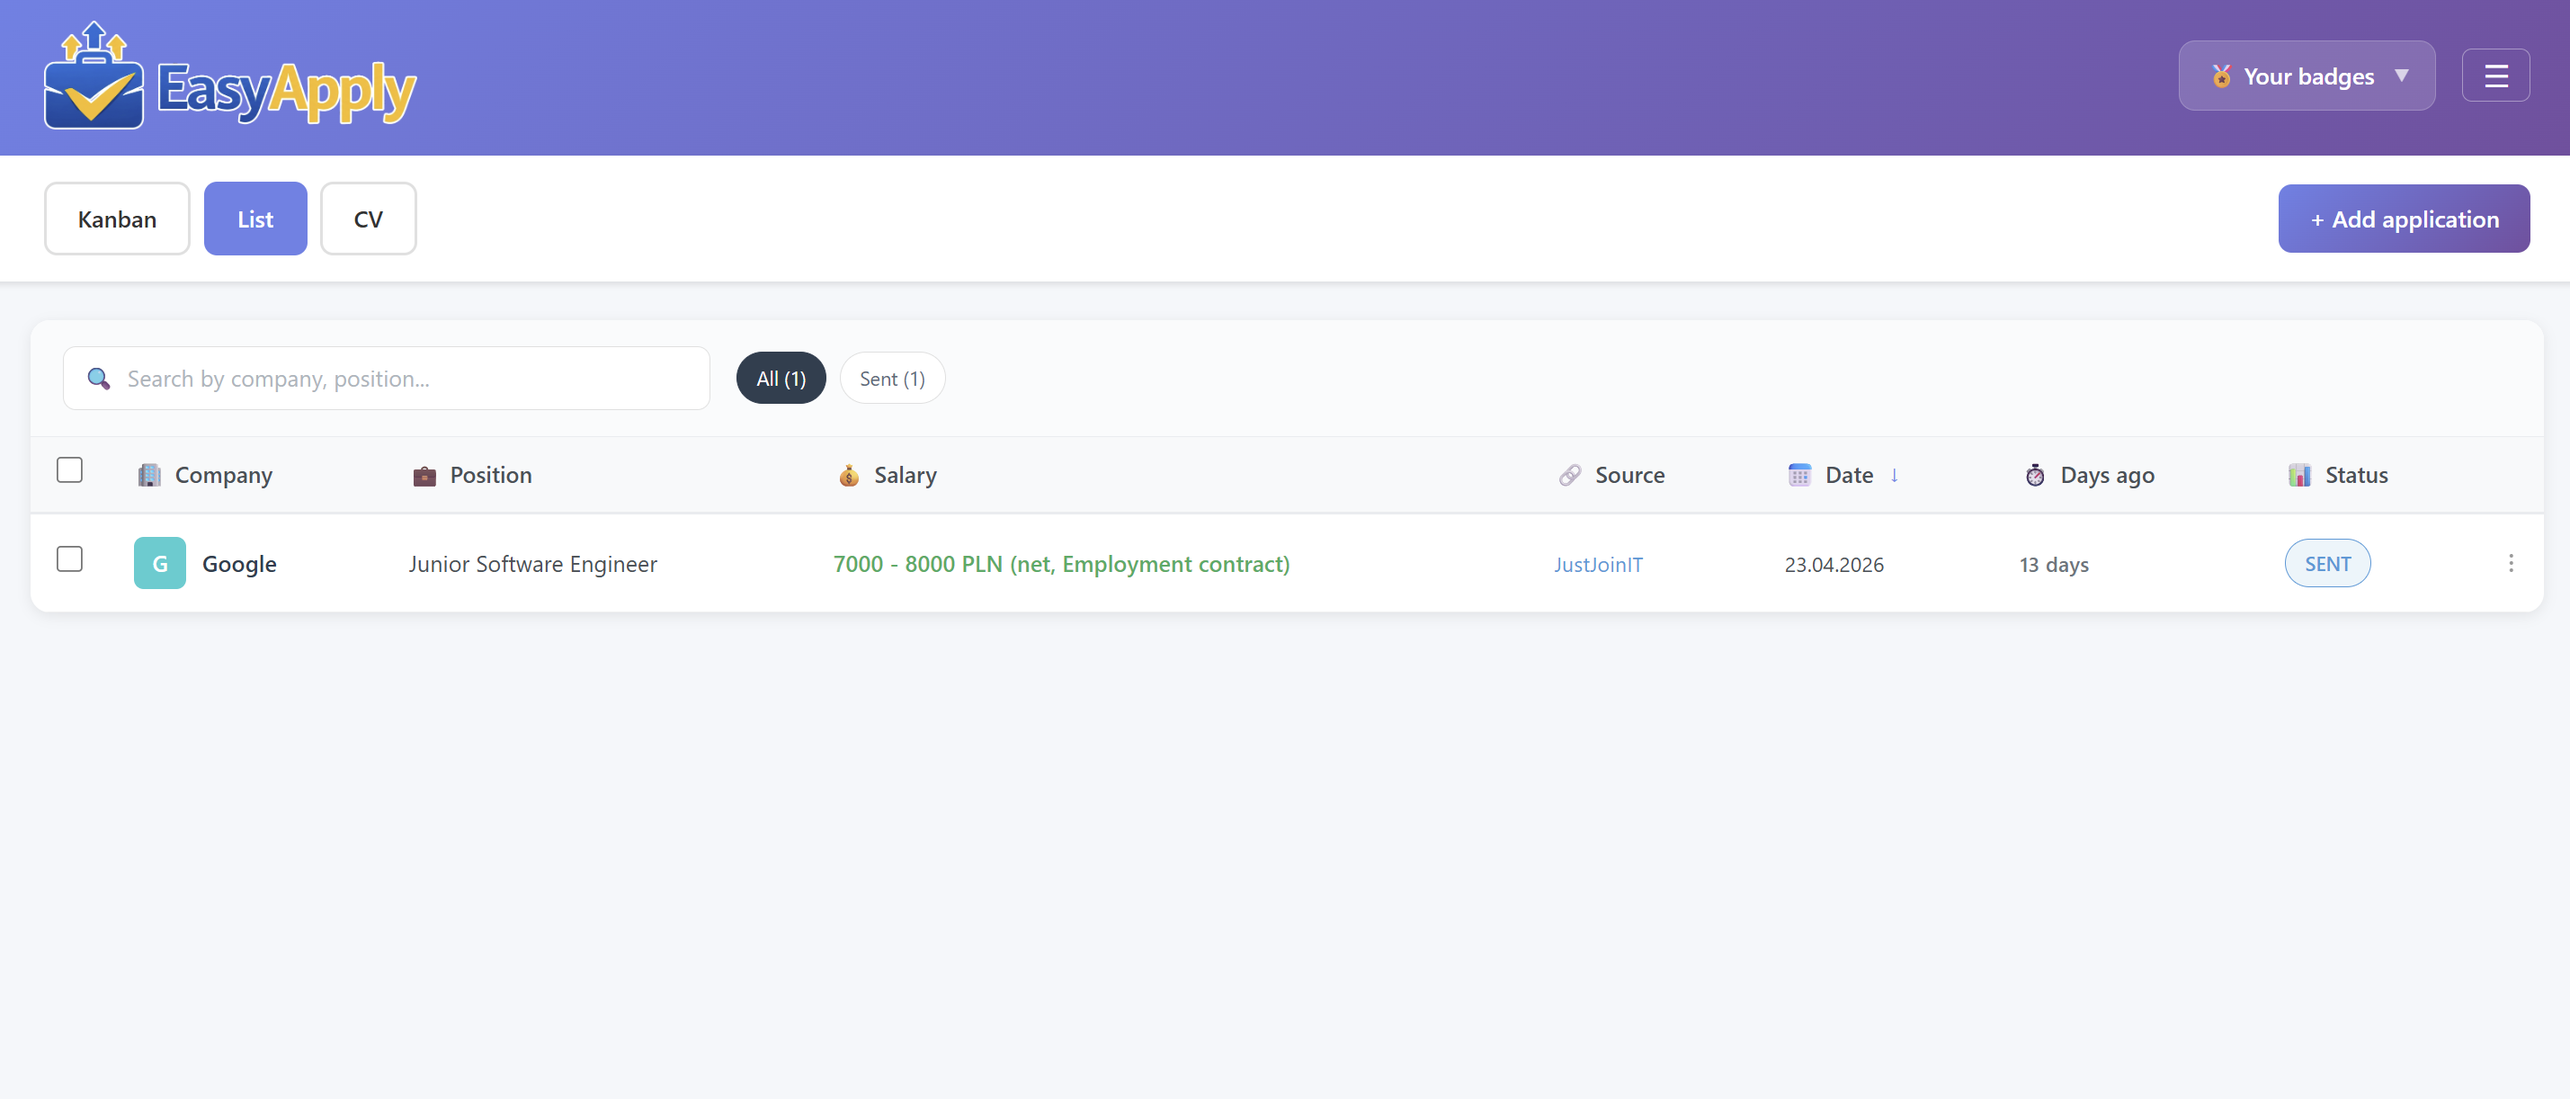
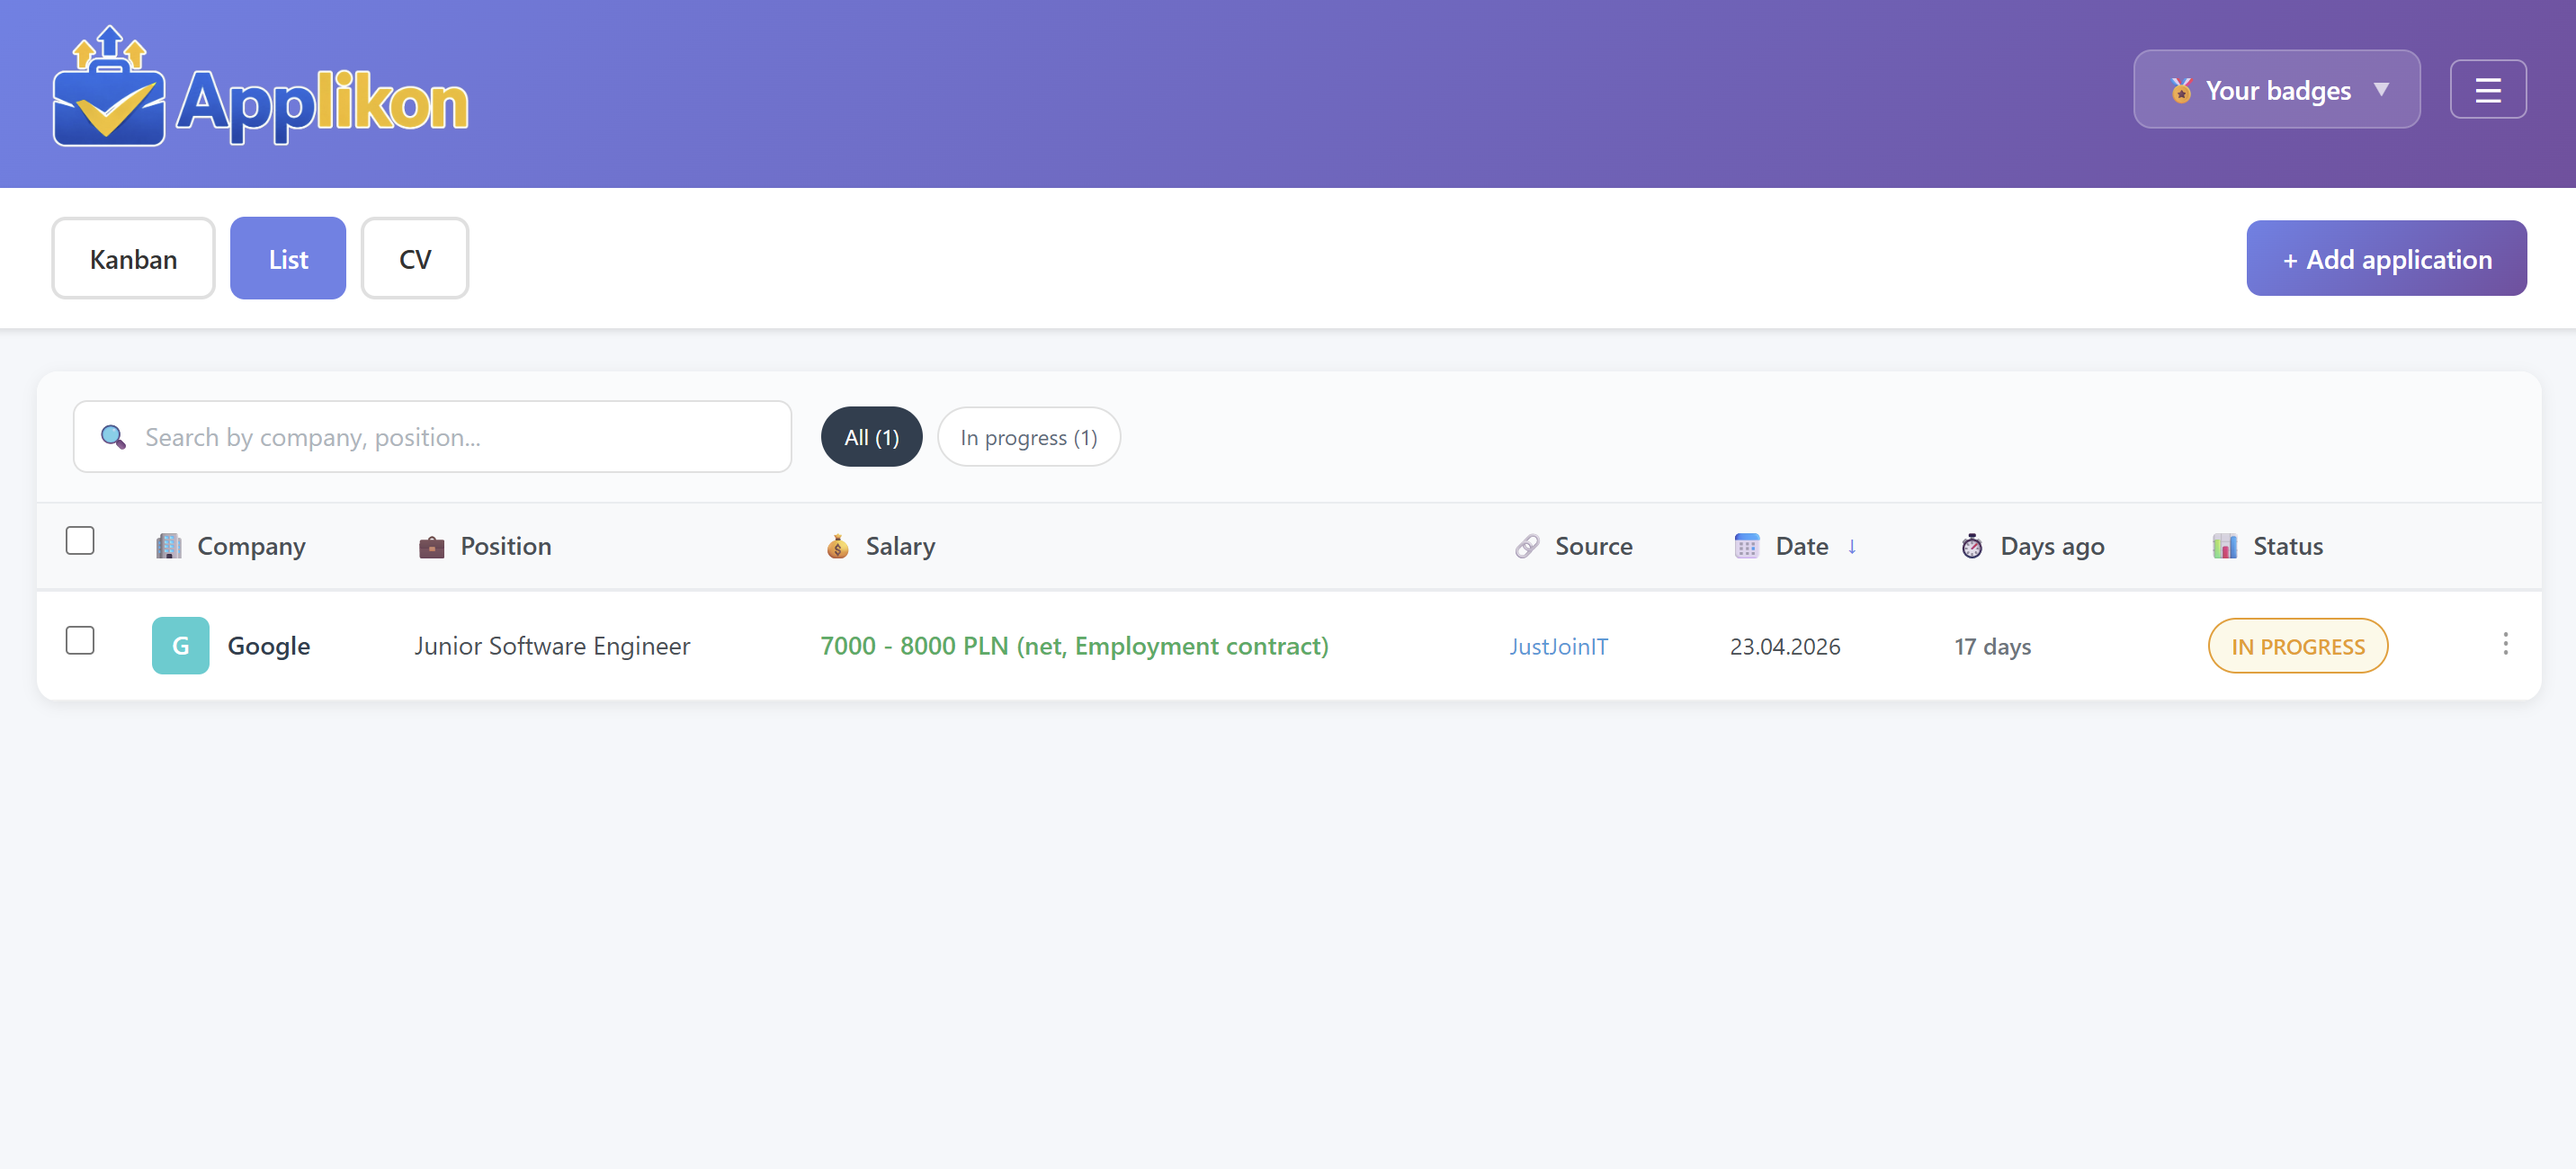
docs: update README

diff --git a/README.md b/README.md
@@ -37,13 +37,24 @@
 
 ## 🧠 Spec-Driven Development with AI
 
-Built with **Claude Code** using a strict spec-first approach: every phase starts with a written specification, gets reviewed, then moves to implementation. No code was written without a plan first.
+Built with **Claude Code** using a strict spec-first approach. No code was written
+without a plan first; no plan was written without knowing what *not* to do.
 
-![](https://img.shields.io/badge/Vision-3B82F6?style=flat-square) → ![](https://img.shields.io/badge/Spec-8B5CF6?style=flat-square) → ![](https://img.shields.io/badge/Code-F97316?style=flat-square) → ![](https://img.shields.io/badge/Review-EAB308?style=flat-square) → ![](https://img.shields.io/badge/Refactor-22C55E?style=flat-square)
+🟦 **Specify** → 🟪 **Plan** → 🟧 **Implement** → 🟨 **Review** → 🟩 **Refactor** ↺
+
+*Each phase folder under `spec/v1/` is one full pass of this cycle. The output of Refactor (lessons, deviations) feeds the next phase's Specify.*
+
+|     | Stage          | What it produces                                                                                                              |
+|-----|----------------|-------------------------------------------------------------------------------------------------------------------------------|
+| 🟦  | **Specify**    | Sets up the phase before any code: context, scope, **out of scope**, numbered Definition of Done.                             |
+| 🟪  | **Plan**       | Implementation steps with tests batched at the end of each stage.                                                             |
+| 🟧  | **Implement**  | Code against the plan — each step with tests, DoD, and a Conventional Commit (`feat(backend)`, `refactor(frontend)`).         |
+| 🟨  | **Review**     | Findings classified **Critical / Important / Nice-to-have**, with **Status** and **Tested** columns until each one is closed. |
+| 🟩  | **Refactor**   | Fixes applied alongside learning: explain → fix → control questions → notes (the AI runs in *mentor mode*).                   |
 
 ```
 spec/
-├── v1/                         
+├── v1/
 │   ├── 01-vision/              ← MVP scope
 │   ├── 02-implementation/      ← implementation plan
 │   ├── 03-review/              ← code review
@@ -59,10 +70,32 @@ spec/
 │   ├── 13-docker-registry/     ← Docker & GHCR
 │   ├── 14-rebrand-applikon     ← rebranding EasyApply -> Applikon
 │   ├── architecture.md         ← package structure, REST endpoints, DB schema, FE components
-│   └── as-built.md             ← plan vs reality, deviations, phase history
+│   ├── as-built.md             ← plan vs reality, deviations, phase history
 │   └── security.md             ← security rules, flow
-└── v2/                         
+└── v2/
     └── vision.md               ← microservices + AI features (CV analysis, job matching)
+```
+
+> **`spec/v1/as-built.md`** — plan vs reality: feat deviations, removed entities, etc. The spec never pretends reality matched the plan.
+
+`.claude/` is the Claude Code config directory:
+
+```
+.claude/
+├── commands/
+│   ├── commit-assistant.md                ← propose Conventional Commit
+│   ├── changelog-manager.md               ← automated CHANGELOG.md
+│   ├── mentor-refactor-backend.md         ← backend refactor + learning (**AI mentor mode**)
+│   └── mentor-refactor-frontend.md        ← frontend refactor + learning (**AI mentor mode**)
+└── skills/
+    ├── code-review-backend/               ← Java 21 / Spring Boot 3.4 reviewer
+    │   ├── SKILL.md
+    │   └── references/
+    ├── code-review-frontend/              ← React 19 / TypeScript reviewer
+    │   ├── SKILL.md
+    │   └── references/
+    └── security-auditor/                  ← OWASP Top 10 read-only auditor (no code modifications)
+        └── SKILL.md
 ```
 
 
